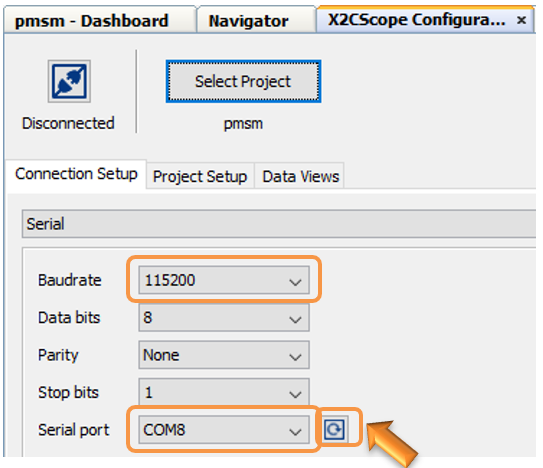
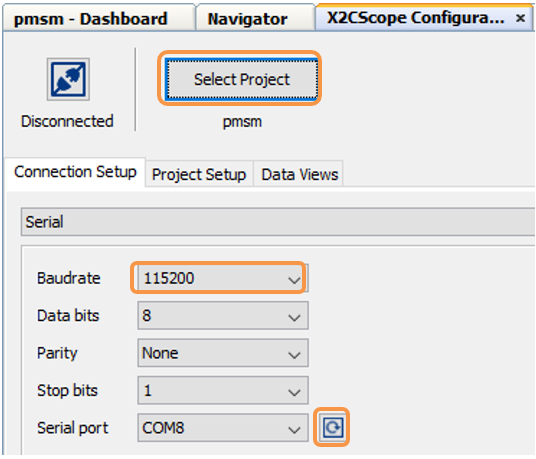
Readme markdown file is updated according and to the word document. Images are updated

Changed region(s): [[0.0, 0.0, 1.0, 1.0], [0.0896, 0.122, 0.1791, 0.2135], [0.0597, 0.732, 0.1493, 0.793]]

diff --git a/README.md b/README.md
@@ -1,253 +1,236 @@
 ![image](images/microchip.jpg) 
-
 ## MCLV-48V-300W dsPIC33CK256MP508 AN1292
 
+## AN1292 Demonstration ReadMe for MCLV-48V-300W Inverter Board with dsPIC33CK256MP508 Motor Control DIM(MPLAB® X IDE)
+
+
 ## 1. INTRODUCTION
-<p style='text-align: justify;'>
-This document describes the setup requirements for running the Sensorless FOC algorithm using
-PLL Estimator, which is referenced in AN1292 “Sensorless Field Oriented Control (FOC) for a Permanent Magnet Synchronous Motor (PMSM) Using a PLL Estimator and Field Weakening (FW)” using MCLV-48V-300W Inverter Board and dsPIC33CK256MP508 Motor Control Dual In-line Module (DIM).</p>
+This document describes the setup requirements for running the Sensorless FOC algorithm using PLL Estimator, which is referenced in **AN1292 “Sensorless Field Oriented Control (FOC) for a Permanent Magnet Synchronous Motor (PMSM) Using a PLL Estimator and Field Weakening (FW)”** using **MCLV-48V-300W Inverter Board** and **dsPIC33CK256MP508 Motor Control Dual In-line Module (DIM).**
 
+</br>
 
-
-## 2.	SUGGESTED DEMONSTRATION REQUIREMENTS
+## 2. SUGGESTED DEMONSTRATION REQUIREMENTS
 
 ### 2.1 Motor Control Application Firmware Required for the Demonstration
-To clone or download this application from Github, go to the [main page of this repository](https://github.com/microchip-pic-avr-solutions/mclv-48v-300w-an1292-dspic33ck256mp508) and then click Clone button to clone this repository or download as zip file.
+
+To clone or download this application firmware on GitHub, 
+- Navigate to the [main page of this repository](https://github.com/microchip-pic-avr-solutions/mclv-48v-300w-an1292-dspic33ck256mp508) and 
+- On the tab **<> Code**, above the list of files in the right-hand corner, click Code, then from the menu, click **Download ZIP** or copy the repository URL **to clone.**
 > **_NOTE:_**
->In this document, hereinafter this firmware package is referred as firmware.
+>In this document, hereinafter this firmware package is referred as **firmware.**
 ### 2.2 Software Tools Used for Testing the firmware
 
-- MPLAB® X IDE v6.00 
-- MPLAB® XC16 Compiler v2.00
-- MPLAB® X IDE Plugin: X2C-Scope v1.3.3 
-- DFP: dsPIC33CK-MP_DFP v1.9.228
-> **_NOTE:_**
+- MPLAB® X IDE **v6.00** 
+- DFP:**dsPIC33CK-MP_DFP v1.9.228**
+- MPLAB® XC16 Compiler **v2.00**
+- MPLAB® X IDE Plugin: **X2C-Scope v1.3.3** 
+> **Note:** </br>
 >The software used for testing the firmware prior to release is listed above. It is recommended to use the version listed above or later versions for building the firmware.
 ### 2.3 Hardware Tools Required for the Demonstration
 - MCLV-48V-300W Inverter Board (EV18H47A)
-- 	dsPIC33CK256MP508 Motor Control DIM (EV62P66A)
+- dsPIC33CK256MP508 Motor Control DIM (EV62P66A)
 - 24V Power Supply [(AC002013)](https://www.microchipdirect.com/dev-tools/AC002013)
 - 24V 3-Phase Brushless DC Motor [(AC300020)](https://www.microchip.com/en-us/development-tool/AC300020)
-  <br />
-> **_NOTE:_**
+
+> **Note:** </br>
 > All items listed under the section Hardware Tools Required for the Demonstration are available at [microchip DIRECT](https://www.microchipdirect.com/)
 
+</br>
+
 ## 3. HARDWARE SETUP
-<p style='text-align: justify;'>This section describes hardware setup required for the demonstration.</p>
+This section describes hardware setup required for the demonstration.
 
-1. <p style='text-align: justify;'> Motor currents are amplified by the amplifiers ( U10 and U11 )on the MCLV-48V-300W Inverter Board. It can also be amplified by the amplifiers internal to the dsPIC33CK256MP508 populated on the DIM. By default, the firmware and DIM are configured to sample and convert internal amplifier outputs ('internal Op Amp configuration'), measuring the motor currents needed for implementing FOC.</p>
+1. Motor currents are amplified on the MCLV-48V-300W Inverter Board; it can also be amplified by the amplifiers internal to the dsPIC33CK256MP508 on the DIM. The firmware and DIM are configured to sample and convert internal amplifier outputs (**'internal op-amp configuration'**) by default to measure the motor currents needed to implement FOC. 
+**Table-1** summarizes the resistors to be populated and removed to convert the DIM from **‘internal op-amp configuration’** to **‘external op-amp configuration’** or vice versa.
 
-     <p style='text-align: justify;'> The Table-1 summarizes the resistors to be populated and removed to convert the DIM from internal Op Amp configuration to external Op Amp configuration or vice versa.</p>
-
-    <p align="left" >
+     <p align="left" >
      <img  src="images/Tableopamp.png"></p>
 
+2. Insert the **dsPIC33CK256MP508 Motor Control DIM** into the DIM Interface **connector J8** on the MCLV-48V-300W Inverter Board. Make sure the DIM is placed correctly and oriented before going ahead.
+
+     <p align="left" >
+     <img  src="images/dimconnected.PNG"></p>
 
 
+3. Connect the 3-phase wires from the motor to PHC, PHB, and PHA of the **connector J4**(no specific order), provided on the MCLV-48V-300W Inverter Board.
 
-2. <p style='text-align: justify;'> Insert the dsPIC33CK256MP508 Motor Control DIM into the DIM Interface Connector J8 provided on the MCLV-48V-300W Inverter Board. Make sure the DIM is placed and oriented correctly.</p>
-
-    <p align="left">
-    <img  src="images/dimconnected.PNG"></p>
-
-
-3. <p style='text-align: justify;'> Connect the three phase wires from the motor to PHA, PHB, and PHC terminals of connector J4(there is no specific order) provided on the MCLV-48V-300W Inverter Board.</p>
-    <p align="left">
+     <p align="left" >
       <img  src="images/motorconnection.png"></p>
 
-4. <p style='text-align: justify;'>	Plug in the 24V power supply to connector J1 provided on the MCLV-48V-300W Inverter Board. Alternatively, the Inverter Board can also be powered through Connector J3.</p>
+4. Plug the 24V power supply to **connector J1** on the MCLV-48V-300W Inverter Board. Alternatively, the Inverter Board can also be powered through Connector J3.
       <p align="left">
       <img  src="images/mclvpower.png"></p>
  
 
- 5.	<p style='text-align: justify;'>The board has an onboard programmer ‘PICkit™ On Board (PKoB4)’ , which can be used for programming or debugging the dsPIC33CK256MP508. To use an on-board programmer, connect a micro-USB cable between Host PC and Connector J16 provided on the MCLV-48V-300W Inverter Board.</p>
-
-
+ 5. The board has an onboard programmer **‘PICkit™ On Board (PKoBv4)’** , which can be used for programming or debugging the microcontroller or dsPIC DSC on the DIM. To use the onboard programmer, connect a micro-USB cable between the Host PC and **connector J16** on the MCLV-48V-300W Inverter Board.
       <p align="left">
      <img  src="images/mclvpkob4.png"></p>
 
- 6.	<p style='text-align: justify;'>Alternatively, the device can also be programmed using the programmer/debugger (MPLAB® PICkit™ 4 In-Circuit Debugger - PG164140) by interfacing it through connector J9 of the MCLV-48V-300W Inverter Board as shown below. Ensure that the programmer is oriented correctly before proceeding.</p> 
-
+ 6. Alternatively, connect the Microchip programmer/debugger MPLAB® PICkit™ 4 In-Circuit Debugger between the Host PC used for programming the device and the **ICSP header J9** on the MCLV-48V-300W Inverter Board (as shown). Ensure that PICkit 4 is oriented correctly before proceeding.
       <p align="left">
        <img  src="images/mclvprogramming.PNG"></p>
  
-<br />
+ </br>
 
 ## 4. SOFTWARE SETUP AND RUN
 ### 4.1 Setup: MPLAB X IDE and MPLAB XC16 Compiler
+Install **MPLAB X IDE** and **MPLAB XC16 Compiler** versions that support the device **dsPIC33CK256MP508** and **PKOBv4.** The MPLAB X IDE, MPLAB XC16 Compiler, and X2C-Scope plug-in used for testing the firmware are mentioned in the [Motor Control Application Firmware Required for the Demonstration](#21-motor-control-application-firmware-required-for-the-demonstration) section. 
 
-Install MPLAB X IDE and MPLAB XC16 Compiler versions that support the device dsPIC33CK256MP508 and PKoBv4. The MPLAB X IDE, MPLAB XC16 Compiler, and X2C-Scope plug-in used for testing the firmware are mentioned in the [Motor Control Application Firmware Required for the Demonstration](#21-motor-control-application-firmware-required-for-the-demonstration) section. To get help on  
+To get help on  
 
 - MPLAB X IDE installation, refer [link](https://microchipdeveloper.com/mplabx:installation)
 - MPLAB XC16 Compiler installation steps, refer [link](https://microchipdeveloper.com/xc16:installation)
 
-<p style='text-align: justify;'>If MPLAB IDE v8 or earlier is already installed on your computer, then run the MPLAB driver switcher (It is installed when MPLAB®X IDE is installed) to switch from MPLAB IDE v8 drivers to MPLAB X IDE drivers. If you have Windows 7 or 8, you must run MPLAB driver switcher in ‘Administrator Mode’. To run the Device Driver Switcher GUI application as administrator, right click on the executable (or desktop icon) and select ‘Run as Administrator’. For additional details refer MPLAB X IDE help topic <i>“Before You Begin: Install the USB Device Drivers (For Hardware Tools): USB Driver Installation for Windows Operating Systems”</i>. </p>
+If MPLAB IDE v8 or earlier is already installed on your computer, then run the MPLAB driver switcher (Installed when MPLAB®X IDE is installed) to switch from MPLAB IDE v8 drivers to MPLAB X IDE drivers. If you have Windows 8 or 10, you must run the MPLAB driver switcher in **Administrator Mode.** To run the Device Driver Switcher GUI application as administrator, right-click on the executable (or desktop icon) and select Run as Administrator. For more details, refer to the MPLAB X IDE help topic **“Before You Begin: Install the USB Device Drivers (For Hardware Tools): USB Driver Installation for Windows Operating Systems.”**
 
-### 4.2  X2C-Scope
-<p style='text-align: justify;'>
-X2C-Scope is a MPLAB X IDE plugin that allows a developer to interact with an application while the application program is running. X2C-Scope enables you to read, write, and plot global variables (for motor control) in real time. It communicates with the target using the UART. To use X2C-Scope, the plugin must be installed:</p>
-
-To set-up and use X2C-Scope, refer the instructions provided in the [webpage.](https://x2cscope.github.io/docs/MPLABX_Plugin.html)
-
+### 4.2 Setup: X2C-SCOPE
+X2C-Scope is an MPLAB X IDE plugin that allows developers to interact with an application while it runs. X2C-Scope enables you to read, write, and plot global variables (for motor con-trol) in real-time. It communicates with the target using the UART. To use X2C-Scope, the plugin must be installed. To set up and use X2C-Scope, refer to the instructions provided on the [web page](https://x2cscope.github.io/docs/MPLABX_Plugin.html).
 
 ## 5.  BASIC DEMONSTRATION
 ### 5.1 Firmware Description
+The firmware version needed for the demonstration is mentioned in the section [Motor Control Application Firmware Required for the Demonstration](#21-motor-control-application-firmware-required-for-the-demonstration) section. This firmware is implemented to work on Microchip’s 16-bit Digital signal controller (dsPIC® DSC) **dsPIC33CK256MP508**. For more information, see the **dsPIC33CK256MP508 Family datasheet (DS70005349)**.
 
-The firmware version needed for the demonstration is mentioned under the [Motor Control Application Firmware Required for the Demonstration](#21-motor-control-application-firmware-required-for-the-demonstration) section.
-<p style='text-align: justify;'>
-This firmware is implemented to work on Microchip’s 16-bit Digital signal controller (dsPIC® DSC) dsPIC33CK256MP508. 
-For more information, see the dsPIC33CK256MP508 Family datasheet (DS70005349).</p>
-<p style='text-align: justify;'>
-The Motor Control Demo application uses push button to start or stop the motor and potentiometer to vary speed of the motor.This Motor Control Demo Application configures and uses peripherals like PWM, ADC, UART etc.</p>
+The Motor Control Demo application uses a push button to start or stop the motor and a potentiometer to vary the speed of the motor. This Motor Control Demo Application config-ures and uses peripherals like PWM, ADC, UART, etc. For more details, refer to Microchip Application note **AN1292, “Sensorless Field Oriented Control (FOC) for a Permanent Magnet Synchronous Motor (PMSM) Using a PLL Estimator and Field Weakening (FW),”** available on the [Microchip website.]((https://www.microchip.com/).)
 
-<p style='text-align: justify;'>
-
-For more details refer Microchip Application note AN1292 'Sensorless Field Oriented Con-trol (FOC) for a Permanent Magnet Synchronous Motor (PMSM) Using a PLL Estimator and Field Weakening (FW)' available at [Microchip web site](https://www.microchip.com/). </p>
-
-> **_NOTE:_**
-> The project may not build correctly in Windows OS if Maximum path length of any source file in the project is more than 260 characters. In case absolute path is exceeding or nearing maximum length, do any (or both) of the following:
-> - Shorten the directory name containing the firmware used in this demonstration. If you renamed the directory, consider the new name while reading the instructions provided in the upcoming sections of the document.
-> - Place firmware in a location, such that absolute path length of each file included in the projects does not exceed the Maximum Path length specified. 
-Refer to MPLAB X IDE help topic <i>“Path, File, and Folder Name Restrictions”</i> for details.
+> **Note:**</br>
+     > The project may not build correctly in Windows OS if the Maximum path length of any source file in the project is more than 260 characters. In case the absolute path exceeds or nears the maximum length, do any (or both) of the following:
+     > - Shorten the directory name containing the firmware used in this demonstration. If you renamed the directory, consider the new name while reading the instructions provided in the upcoming sections of the document.
+     > - Place firmware in a location such that the total path length of each file included in the projects does not exceed the Maximum Path length specified. </br>
+> Refer to MPLAB X IDE help topic **“Path, File, and Folder Name Restrictions”** for details. 
 
 ### 5.2 Basic Demonstration
-<p style='text-align: justify;'>
-Follow below instructions step by step to setup and run the motor control demo application:</p>
+Follow the below instructions, step by step, to set up and run the motor control demo application:
 
-1. <p style='text-align: leftjustify;'> Start MPLAB X IDE and open<span style="font-family:Courier New; font-size:;"> (File>Open Project)</span> the project <span style="font-family:Courier New; font-size:;">pmsm.X</span> with device selection dsPIC33CK256MP508.</p>
+1. Start **MPLAB X IDE** and open the project **pmsm.X (File > Open Project)** with device selection **dsPIC33CK256MP508.**  
     <p align="left">
        <img  src="images/idedeviceselection.png"></p>
   
 
-2. <p style='text-align: leftjustify;'> Set the project <span style="font-family:Courier New; font-size:;">pmsm.X </span>as main project by right clicking on the project name and selecting 'Set as Main Project' as shown. The project <b>'pmsm'</b> will then appear in bold.</p>
+2. Set the project **pmsm.X** as the main project by right-clicking on the project name and selecting **Set as Main Project** as shown. The project **pmsm.X** will then appear in **bold.**
     <p align="left">
      <img  src="images/ideprojectsetup.png"></p>
  
 
 	
-3. <p style='text-align: leftjustify;'> Open <span style="font-family:Courier New; font-size:;">userparams.h </span>(under<span style="font-family:Courier New; font-size:;"> pmsm.X -> headerfiles)</span> in the project <span style="font-family:Courier New; font-size:;">pmsm.X</span> </p>
-     <p style='text-align: leftjustify;'>
-- Ensure that <span style="font-family:Courier New; font-size:;">TUNING, OPEN_LOOP_FUNCTIONING, and TORQUE_MODE </span>are not defined.
-      <p align="left"><img  src="images/configParam.png"></p>
-- When internal amplifiers are used for current amplification (referred as <b>‘internal Op Amp configuration’</b>) then<b> define</b> <span style="font-family:Courier New; font-size:;">INTERNAL_OPAMP_CONFIG</span>.
-        <p align="left"> <img  src="images/internalopampconfig.png"></p>
-       Otherwise if external amplifiers are used for current amplification (referred as <b>‘external Op Amp configuration’</b>) then <b>undefine </b>the macro <span style="font-family:Courier New; font-size:;">INTERNAL_OPAMP_CONFIG</span> in <span style="font-family:Courier New; font-size:;"> userparams.h.</span></p>
-        <p align="left">
-      <img  src="images/externalopampconfig.png"></p>
-      
-      
-   
-   
-> **_NOTE:_**
->The motor phase currents can be reconstructed from the DC Bus current by appropriately sampling it during the PWM switching period, called a single-shunt reconstruction algorithm. The firmware can be configured to demonstrate the single shunt reconstruction algorithm by defining the macro<span style="font-family:Courier New; font-size:;">‘SINGLE_SHUNT’</span> in the header file <span style="font-family:Courier New; font-size:;"> userparams.h </span><br>
->For additional information, refer to Microchip application note <b>AN1299, “Single-Shunt Three-Phase Current Reconstruction Algorithm for Sensorless FOC of a PMSM.”</b> <br>
->By default, the firmware uses phase currents measured across the phase shunt resistors on two of the half-bridges of the three-phase inverter (‘dual shunt configuration’) to implement FOC.
+3. Open **userparms.h** (under **pmsm.X > Header Files**) in the project **pmsm.X.**  
+     - Ensure that the macros **TUNING, OPEN_LOOP_FUNCTIONING, TORQUE_MODE, and SINGLE_SHUNT** is not defined in the header file **userparms.h.**
+          <p align="left"><img  src="images/configParam.png"></p>
+
+     - When internal amplifiers are used for current amplification (referred to as **internal op-amp configuration**), **define** the macro **INTERNAL_OPAMP_CONFIG** in **userparms.h.**
+          <p align="left"> <img  src="images/internalopampconfig.png"></p>
+     - Otherwise, if external amplifiers are used for current amplification (referred to as **external op-amp configuration**), undefine the macro **INTERNAL_OPAMP_CONFIG** in the header file **userparms.h.**
+        <p align="left"><img  src="images/externalopampconfig.png"></p> 
+
+> **Note:**</br>
+>The motor phase currents can be reconstructed from the DC Bus current by appropriately sampling it during the PWM switching period, called a single-shunt reconstruction algorithm. The firmware can be configured to demonstrate **the single shunt reconstruction algorithm** by defining the macro **SINGLE_SHUNT** in the header file **userparms.h** 
+>For additional information, refer to Microchip application note **AN1299, “Single-Shunt Three-Phase Current Reconstruction Algorithm for Sensorless FOC of a PMSM.”**
+>By default, the firmware uses phase currents measured across the phase shunt resistors on two of the half-bridges of the three-phase inverter (**‘dual shunt configuration’**) to implement FOC.
 
 
-4. Right click on the project <i>pmsm.X</i> and select “Properties”  to open its Project Properties Dialog.Click the “Conf: [default]” category to reveal the general project configuration information. The development tools used for testing the firmware are listed in the section [2.2 Software Tools Used for Testing the firmware](#22-software-tools-used-for-testing-the-firmware).
-   <p style='text-align: justify;'>
-    In the <b><i>‘Conf: [default]’</i></b> category window: 
-    <p style='text-align: justify;'>
+4. Right-click on the project **pmsm.X** and select **Properties** to open its **Project Properties** Dialog. Click the **Conf: [default]** category to reveal the general project configuration information. The development tools used for testing the firmware are listed in section [2.2 Software Tools Used for Testing the firmware.](#22-software-tools-used-for-testing-the-firmware).
 
- - Select the specific Compiler Toolchain from the available list of compilers. Please ensure MPLAB® XC16 Compiler supports the device dsPIC33CK256MP508.In this case, “XC16(v1.70)” is selected.
-      <p style='text-align: justify;'>
- - Select the Hardware Tool to be used for programming and debugging. 
-       <p style='text-align: justify;'>
--	Select the specific Device Family Pack (DFP) from the available list of Packs. In this case, “dsPIC33CK-MP_DFP 1.6.176” is selected.     
- -   After selecting Hardware Tool and Compiler Toolchain, click button <b>Apply</b>
-        <p align="left">
-        <img  src="images/projectpropertiessettings.png"></p>
+     In the **Conf-default** category window: 
+     - Ensure the selected **Device** is **dsPIC33CK256MP508.**
+     - Select the **Connected Hardware Tool** to be used for programming and debugging. 
+     - Select the specific Device Family Pack (DFP) from the available list of **Packs.** In this case, **dsPIC33CK-MP_DFP 1.9.228** is selected. 
+     - Select the specific **Compiler Toolchain** from the available list of **XC16** compilers. 
+     In this case, **XC16(v2.00)** is selected.
+     - After selecting Hardware Tool and Compiler Toolchain, Device Pack, click the button **Apply**
 
-5. <p style='text-align: justify;'> Ensure that the checkbox <b>'Load symbols when programming or building for production (slows process)'</b> is checked, which is under the 'Loading' category of the Project Properties window.</p>        
+     Please ensure that the selected MPLAB® XC16 Compiler and Device Pack support the device configured in the firmware
+
+     <p align="left">
+     <img  src="images/projectpropertiessettings.png"></p>
+
+5. Ensure that the checkbox **Load symbols when programming or building for production (slows process)** is checked under the **Loading** category of the **Project Properties** window.       
         
       <p align="left">
       <img  src="images/loadvariables.png"></p>
 
-6. <p style='text-align: justify;'>	 To build the project (in this case pmsm.X) and program the device dsPIC33CK256MP508, click <b>'Make and Program Device Main project'</b> on the toolbar.</p>
+6. To build the project (in this case, **pmsm.X**) and program the device dsPIC33CK256MP508, click **Make and Program Device Main project** on the toolbar
     <p align="left">
     <img  src="images/deviceprogramming.png"></p>
   
-7. <p style='text-align: justify;'>	 	If the device is successfully programmed, <b>LD2 (‘LED1’)</b>  will be turned ON, indicating that the dsPIC® DSC is enabled. </p> 
+7. If the device is successfully programmed, **LD2 (LED1)** will be turned **ON**, indicating that the dsPIC® DSC is enabled.
     <p align="left">
      <img  src="images/led.png"></p>
 
 
-8. <p style='text-align: justify;'> 	Run or stop the motor by pressing the push button <b>SW1</b>. The motor should start spinning smoothly in one direction in the ‘Normal Speed Range’. Ensure that the motor is spinning smoothly without any vibration. The LED <b>LD3 (‘LED2’)</b> is turned ON to show the button is pressed to start the motor </p>
+8. Run or stop the motor by pressing the push button **SW1.** The motor should start spinning smoothly in one direction in the nominal speed range. Ensure that the motor is spinning smoothly without any vibration. The LED **LD3(LED2)** is turned **ON** to show the button is pressed to start the motor.
      <p align="left">
      <img  src="images/pushbuttons.png"></p>
  
 
-9.  <p style='text-align: justify;'> The motor speed can be varied using the potentiometer (labeled <b>'POT1'</b>).</p>
+9. The motor speed can be varied using the potentiometer **(POT1).**
     <p align="left">
     <img  src="images/potentiometer.png"></p>
-
  
-10.	<p style='text-align: justify;'>To enter the extended speed range (NOMINAL_SPEED_RPM to MAXIMUM_SPEED_RPM) press the push button <b>SW2</b>. Press the push button <b>SW2</b> again to revert the speed of the motor to its normal speed (END_SPEED_RPM to NOMINAL_SPEED_RPM) range. </p>
+10. Press the push button **SW2** to enter the extended speed range (NOMINAL_SPEED_RPM to MAXIMUM_SPEED_RPM).
+Press the push button **SW2** again to revert the speed of the motor to its nominal speed range (END_SPEED_RPM to NOMINAL_SPEED_RPM).
       <p align="left">
-     <img  src="images/stopButton.png"></p>
-  
+     <img  src="images/stopButton.png"></p> 
 
-11. <p style='text-align: justify;'>	Press the push button <b>SW1</b> to stop the motor.</p>
+11. Press the push button **SW1** to stop the motor.
 
 
->**_NOTE:_**
->The macro definitions END_SPEED_RPM, NOMINAL_SPEED_RPM, and MAXIMUM_SPEED_RPM are specified in userparms.h file included in the project pmsm.X. The definitions NOMINAL_SPEED_RPM, and MAXIMUM_SPEED_RPM are defined as per the specification provided by the Motor manufacturer. Exceeding manufacture specification may lead to damage of the motor or(and) the board. 
+>**Note:**</br>
+>The macros END_SPEED_RPM, NOMINAL_SPEED_RPM, and MAXIMUM_SPEED_RPM are specified in the header file **userparms. h** included in the project **pmsm.X.** The macros NOMINAL_SPEED_RPM and MAXIMUM_SPEED_RPM are defined as per the Motor manu-facturer’s specifications. Exceeding manufacture specifications may damage the motor or the board or both.
 
 ## 5.3  Data visualization through X2C-Scope Plug-in of MPLABX
-<p style='text-align: justify;'>
- X2C-Scope is a third-party plug-in for MPLAB X, which helps in real-time diagnostics. The application firmware comes with the initialization needed to interface controller with the host PC to enable data visualization through X2C-Scope plug-in.</p>
 
-1. Ensure X2C-Scope Plug-in is installed. For additional information on how to set up a plug-in refer [https://microchipdeveloper.com/mplabx:tools-plugins-available](https://microchipdeveloper.com/mplabx:tools-plugins-available)
+X2C-Scope is a third-party plug-in in MPLAB X, which helps in real-time diagnostics. The application firmware comes with the initialization needed to interface the controller with the host PC to enable data visualization through the X2C-Scope plug-in. Ensure the X2C-Scope plug-in is installed. For more information on how to set up a plug-in, refer to either the [Microchip Developer Help page](https://microchipdeveloper.com/mplabx:tools-plugins-available) or the [web page.](https://x2cscope.github.io/docs/MPLABX_Plugin.html)
  
-2.	To establish serial communication with the host PC, connect a micro-USB cable between the host PC and the MCLV-48V-300W Inverter Board (connector J16). This interface is also used for programming.
+1. To establish serial communication with the host PC, connect a micro-USB cable between the host PC and **connector J16** on the MCLV-48V-300W Inverter Board. This interface is also used for programming.
 
 
-3. Ensure application is configured and running as described under Section [Basic Demonstration](#5-basic-demonstration   ) by following steps 1 through 11.
+2. Ensure the application is configured and running as described under section [5.2 Basic Demonstration](#52-basic-demonstration) by following steps 1 through 11.
 
- 
-
-4. Open the X2C-Scope window by selecting <span style="font-family:Courier New; font-size:;">Tools>Embedded>X2CScope.</span></p>
+3. Open the **X2C-Scope** window by selecting **Tools>Embedded>X2CScope.**
       <p align="left">
        <img  src="images/x2cselection.png"></p>
  
 
-5. Open the X2C-Scope Configuration window and in <b>'Select project'</b> menu, select <b>pmsm</b> project as shown.
+4. **In the X2C-Scope Configuration** window, open the **Connection Setup** tab and click **Select Project.** This opens the drop-down menu **Select Project** with a list of opened projects. Select the specific project **pmsm** from the list of projects and click **OK.**
     <p align="left">
     <img  src="images/x2cprojectselection.png"></p>
 
-6.	Serial communication needs to be set up, as shown in the following figure. Ensure the communication baud rate is set to 115200 as configured in the application firmware. The COM port used depends on the system settings. The <span style="font-family:Courier New; font-size:;">refresh button</span> lists the available COM Ports. Select the COM Port as per the connection.
+5. To configure and establish the serial communication for **X2C-Scope**, open the **X2CScope Configuration** window, click on the **Connection Setup** tab and:
+     - Set **Baudrate** as **115200**, which is configured in the application firmware. 
+     - Click on the **Refresh** button to refresh and update the list of the available Serial COM ports connected to the Host PC. 
+     - Select the specific **Serial port** detected when interfaced with the MCLV-48V-300W Inverter Board. The **Serial port** depends on the system settings
 
     <p align="left">
      <img  src="images/x2cconnectionsetup.png"></p>
  
 
-
-7. Once the COM port is detected, click on <b>'Disconnected'</b> and turn to <b>'Connected'</b>, to establish a serial communication between Host PC and the board.
+6. Once the **Serial port** is detected, click on **Disconnected** and turn to **Connected**, to establish serial communication between the Host PC and the board.
      <p align="left">
     <img  src="images/x2cconnectionbutton.png"></p>
 
 
-8. Set the <b>'Project Setup'</b> as shown below and click <b>'Set Value'</b>. Set Scope sample time as interval at which <span style="font-family:Courier New; font-size:1;">X2CScopeUpdate()</span> is called. In this application it is every 50µs.
+7. Open the **Project Setup** tab in the **X2CScope Configuration** window and,
+     - Set **Scope Sampletime** as the interval at which X2CScopeUpdate() is called. In this application, it is every 50µs. 
+     - Then, click **Set Values** to save the configuration.
+
       <p align="left">
       <img  src="images/x2cprojectsetup.png"></p>
 
 
-9. When the setup is established, click on open scope View (under sub window <b>'Data Views'</b>), this opens 'Scope Window'.
+8.	Click on **Open Scope View** (in the **Data Views** tab of the **X2CScope Configuration** Window); this opens **Scope Window.**
      <p align="left">
       <img  src="images/x2cdataview.png"></p>
     	     
-
-10. In this window, select the variables that needs to be monitored. To do this, click on the source against each channel, a window Select Variables opens upon the screen. From the available list, the required variable can be chosen. Ensure check boxes Enable & Visible are checked for the variables to be plotted.<br>
-To view data plots continuously, uncheck<span style="font-family:Courier New; font-size:1;"> Single-shot</span>. When <span style="font-family:Courier New; font-size:1;">Single-shot</span> is checked it captures the data once and stops. The Sample time factor value multiplied with Sample time determines the time difference between any two consecutive data points on the plot.
+9. In the **Scope Window**, select the variables that must be watched. To do this, click on the Source against each channel, and a window **Select Variables** opens on the screen. From the available list, the required variable can be chosen. Ensure checkboxes **Enable** and **Visible** are checked for the variables to be plotted.
+To view data plots continuously, uncheck **Single-shot.** When **Single-shot** is checked, it captures the data once and stops. The **Sample time factor** value multiplied by **Sampletime** decides the time difference between any two consecutive data points on the plot.
     <p align="left">
     <img  src="images/x2cdatapointselection.png"></p>
 
-11.	Click on <b>'SAMPLE'</b>, then X2C-Scope window shows variables in real time, which is updated automatically.
+10.	Click on **SAMPLE**, then the X2C-Scope window plots variables in real-time, which updates automatically.
      <p align="left">
      <img  src="images/x2csample.png"></p>
  
 
-12.	Click on <b>'ABORT'</b> to stop.
+11.	Click on **ABORT** to stop.
      <p align="left">
      <img  src="images/x2cabort.png"></p>
  
@@ -262,6 +245,7 @@ For additional information, refer following documents or links.
 7. MPLAB® X IDE User’s Guide (DS50002027) or MPLAB® X IDE help
 8. [MPLAB® X IDE installation](http://microchipdeveloper.com/mplabx:installation)
 9. [MPLAB® XC16 Compiler installation](http://microchipdeveloper.com/xc16:installation)
+10. [Installation and setup of X2Cscope plugin for MPLAB X](https://x2cscope.github.io/docs/MPLABX_Plugin.html)
 
 
 
